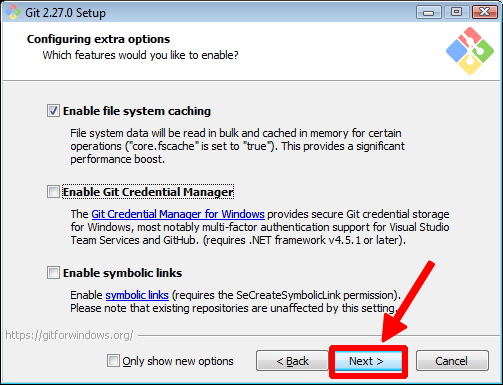
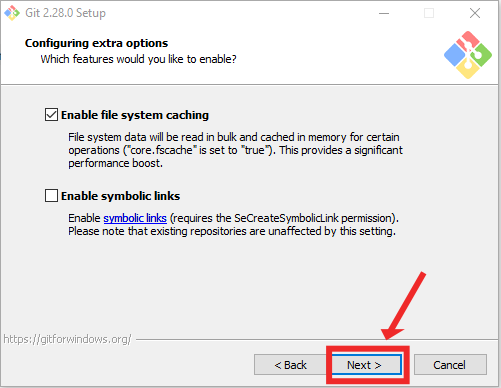
added new img

Changed region(s): [[0.0, 0.0, 1.0, 1.0], [0.0898, 0.4675, 0.8982, 0.6545], [0.0898, 0.2494, 0.8084, 0.4364]]

diff --git a/git/README.md b/git/README.md
@@ -66,22 +66,27 @@
 <img src="img/10.png" alt="">
 
 #### 11. git pull
-Поведение по умолчанию для `git pull`. Оставьте выбранной опцию Default (fast-forward or merge) и нажмите кнопку Next (как показано на скриншоте):
+Поведение по умолчанию для `git pull`. Оставьте выбранной опцию Default (fast-forward or merge) и нажмите кнопку `Next` (как показано на скриншоте):
 
 <img src="img/10_1.png" alt="">
 
-#### 12. Extra-опции
+### 12. Credential Manager
+Оставьте выбранную опцию по умолчанию и нажмите кнопку `Next` (как показано на скриншоте):
+
+<img src="img/10_2.png" alt="">
+
+#### 13. Extra-опции
 Убедитесь, что установлен флажок только на `Enable file system caching` и нажмите кнопку `Next` (как показано на скриншоте):
 
 <img src="img/11.png" alt="">
 
-#### 13. Экспериментальные опции
-Убедитесь, что все экспериментальные опции отключены и нажмите кнопку `Next` (как показано на скриншоте):
+#### 14. Экспериментальные опции
+Убедитесь, что все экспериментальные опции отключены и нажмите кнопку `Install` (как показано на скриншоте):
 
 <img src="img/12.png" alt="">
 
-#### 14. Завершение установки
-Дождитесь завершения установки и нажмите кнопку `Finish` (как показано на скриншоте):
+#### 15. Завершение установки
+Дождитесь завершения установки и нажмите кнопку `Next` (как показано на скриншоте):
 
 <img src="img/13.png" alt="">
 
